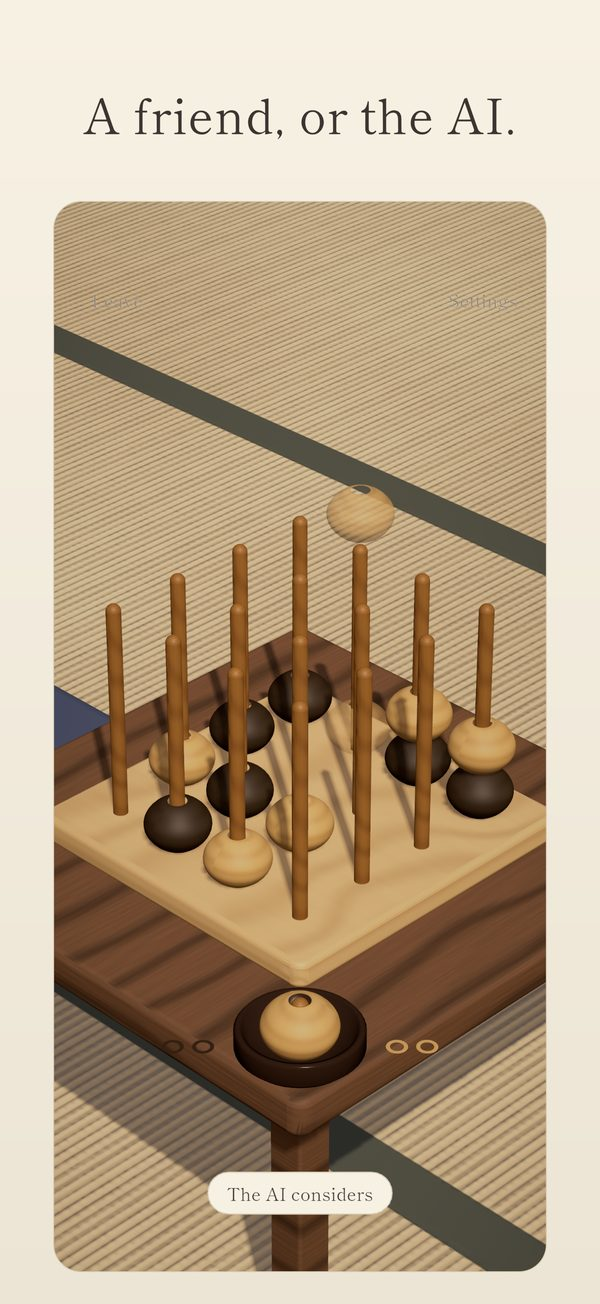
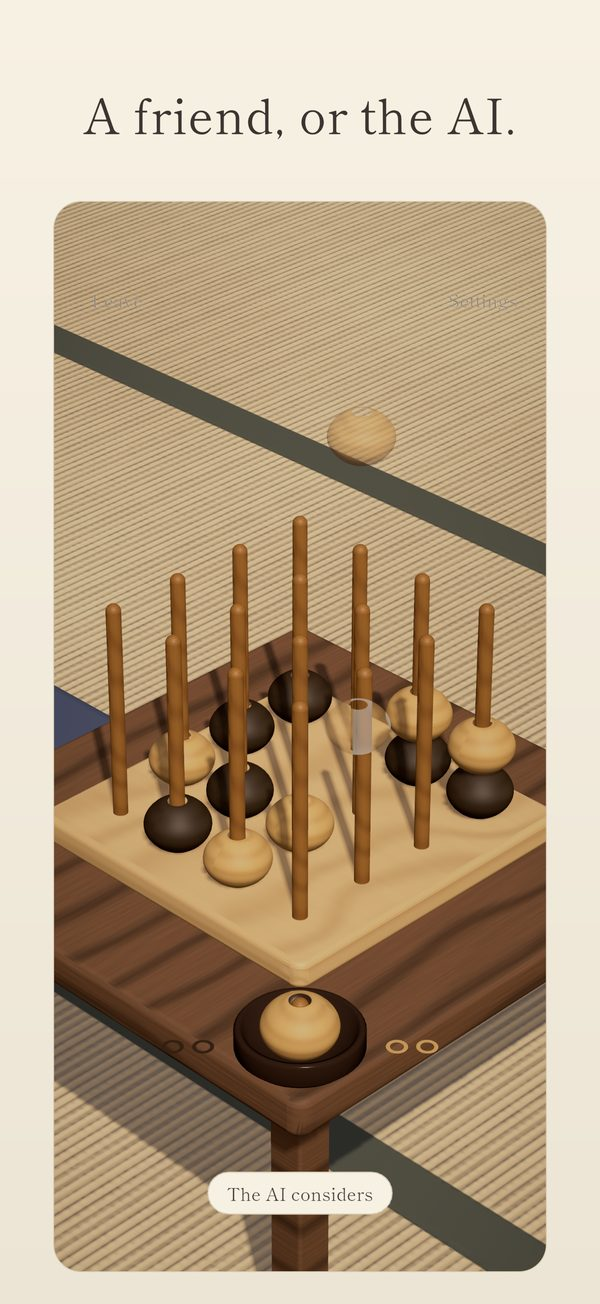
1.3.1: the higher ghost in the AI frame, the on-device ad schedule, the free FAQ

Changed region(s): [[0.54, 0.3067, 0.66, 0.4294], [0.57, 0.5215, 0.63, 0.5828]]

diff --git a/privacy.html b/privacy.html
@@ -21,12 +21,12 @@ footer { margin-top: 48px; font-size: 14px; color: #7A716A; }
 <main>
 <nav><a href="index.html">Yonmoku</a><a href="support.html">Support</a><a href="privacy.html">Privacy policy</a></nav>
 <h1>Privacy policy<small>Yonmoku: 3D Four in a Row</small></h1>
-<p>Yonmoku: 3D Four in a Row ("the app") is published by JJ Fisher LLC. Last updated 2026-11-01, for version 1.2.</p>
+<p>Yonmoku: 3D Four in a Row ("the app") is published by JJ Fisher LLC. Last updated 2026-11-09, for version 1.3.1.</p>
 <p>The app has no account of its own, and JJ Fisher LLC does not receive any personal data from it.</p>
 <p><strong>Ads.</strong> From version 1.1 the app shows an occasional full-screen ad between games, served by Google AdMob, a service of Google LLC. The ads are non-personalized and limited to content rated for all ages, and the app never asks for permission to track you. To serve the ads, measure them and prevent fraud, Google's software in the app sends Google device and usage information: an identifier for this app on your device, an approximate location derived from your network address, information about the ads you see and how they perform, and performance and crash diagnostics. Google's own policy describes what it does with this information: policies.google.com/privacy.</p>
 <p><strong>Consent.</strong> Where the law requires it, such as in the European Economic Area, the United Kingdom, Switzerland and some US states, Google's consent message asks for your choice before ads are personalized or your data is shared, and the Ad privacy choices entry in Settings lets you change it at any time.</p>
 <p><strong>Younger players.</strong> Where Apple reports that a parent must approve a significant change to an app, the app asks the parent through Apple's request and shows no ads until the parent approves; the game stays fully playable. For players Apple reports as under 13, Google's child-directed treatment applies to every ad request.</p>
-<p><strong>On your device.</strong> The app writes one small save file that holds the current game and series (the moves played, the score, and how long each move took), your settings (sound, ambience, haptics, drag the board, your choice of opponent), the names you give the two players, the record of series between players, the practice opponent's level, the days you solved the daily puzzle, the achievements you earned, and a record of when the last ad appeared so ads stay occasional. They are deleted when you delete the app. A picture of the board you share is made on your device and goes only where you send it. The app reads your device's accessibility settings (Reduce Motion, text size, VoiceOver) only to adapt its own display, and uses no sensor.</p>
+<p><strong>On your device.</strong> The app writes one small save file that holds the current game and series (the moves played, the score, and how long each move took), your settings (sound, ambience, haptics, drag the board, your choice of opponent), the names you give the two players, the record of series between players, the practice opponent's level, the days you solved the daily puzzle, the achievements you earned, and a small ad schedule (how many times and on how many days you have opened the app, how many games you have finished, and when the last ad appeared), so that ads appear only once you play often and stay occasional; it never leaves your device. They are deleted when you delete the app. A picture of the board you share is made on your device and goes only where you send it. The app reads your device's accessibility settings (Reduce Motion, text size, VoiceOver) only to adapt its own display, and uses no sensor.</p>
 <p><strong>Your iCloud.</strong> If iCloud is on, the record between players, the practice opponent's level, the solved puzzle days and the earned achievements are also kept in your own iCloud key-value storage, so your other devices show the same. JJ Fisher LLC cannot read them; Apple's privacy policy covers iCloud.</p>
 <p><strong>Game Center.</strong> Only if you choose Achievements in Settings, the app asks Game Center to sign you in, and from then on reports the achievements you earn to your Game Center account. Apple runs Game Center under its own privacy policy; JJ Fisher LLC receives nothing from it.</p>
 <p>Questions: contact@jjfisher.dev.</p>

diff --git a/index.html b/index.html
@@ -134,7 +134,7 @@ h3 { font-size: 17px; margin: 24px 0 4px; }
 </div>
 <h2>Questions people ask</h2>
 <h3>Is Yonmoku free?</h3>
-<p>Yes, and there is nothing to buy. Between games it sometimes shows a full-screen ad: the first after your second or third game, then one every two or three games, never two within three minutes. There is never an ad during a game or in the daily puzzle. The ads are not personalized, and Yonmoku never asks to track you. Where privacy law asks for it, Google&#x27;s consent form comes first and Ad privacy choices sits in Settings, and where Apple&#x27;s age check applies, ads for a younger player wait until a parent approves.</p>
+<p>Yes, and there is nothing to buy. Ads come only once you play often: after you have opened Yonmoku on two different days and finished five games, an occasional full-screen ad may appear when you tap Next game or Rematch, never after the first game of a sitting, at most one every three games and five minutes, two a sitting and four a day, and not in your first sitting back after a week away. There is never an ad during a game or in the daily puzzle. The ads are not personalized, and Yonmoku never asks to track you. Where privacy law asks for it, Google&#x27;s consent form comes first and Ad privacy choices sits in Settings, and where Apple&#x27;s age check applies, ads for a younger player wait until a parent approves.</p>
 <h3>Can two people play on one iPhone or iPad?</h3>
 <p>Yes, that is what Yonmoku was made for. Two players share one iPhone or iPad and pass it across, a bead each. At every handoff the camera eases back to the same home angle, so the last view gives nothing away. Play a single game or a best of 3 or 5; in a series, the loser of each game starts the next.</p>
 <h3>Can I play alone?</h3>
